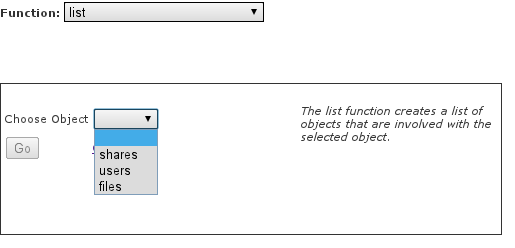
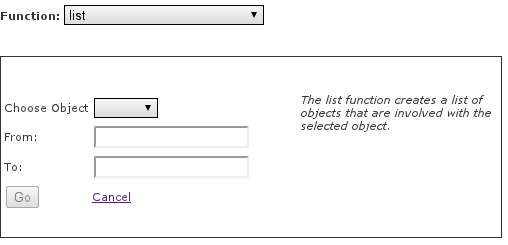
Updated webSMBTA documentation with time modifiers and printview-formats

diff --git a/doc/smbta-guide.html b/doc/smbta-guide.html
@@ -461,8 +461,8 @@ function generateToc(toclevels) {
 <h1>The SMB Traffic Analyzer Guide</h1>
 <span id="author">Holger Hetterich</span><br />
 <span id="email"><tt>&lt;<a href="mailto:ozzy@metal-district.de">ozzy@metal-district.de</a>&gt;</tt></span><br />
-<span id="revnumber">version 1.2.4,</span>
-<span id="revdate">Apr 2011</span>
+<span id="revnumber">version 1.2.5,</span>
+<span id="revdate">May 2011</span>
 <div id="toc">
   <div id="toctitle">Table of Contents</div>
   <noscript><p><b>JavaScript must be enabled in your browser to display the table of contents.</b></p></noscript>
@@ -1555,7 +1555,7 @@ The list function prints a list of objects related to the given object.</p></div
 <div class="paragraph"><p>"list users" will print out the list of known users working or involved
 with the object.<br />
 "list files" will print out the list of known files involved with the object.</p></div>
-<div class="paragraph"><p>needed parameters: object</p></div>
+<div class="paragraph"><p>Needed parameters: object (shares, users, files)</p></div>
 <h5 id="_total_2">total</h5>
 <div class="paragraph"><p><span class="image">
 <img src="gfx/webSMBTA/fn_total.png" alt="gfx/webSMBTA/fn_total.png" />
@@ -1564,41 +1564,66 @@ The total function prints out the sum of bytes transferred by an object.</p></di
 <div class="paragraph"><p>"total r" will compute the sum of bytes read.<br />
 "total w" will compute the sum of bytes written.<br />
 "total rw" will compute the sum of bytes transferred (read and write access).</p></div>
-<div class="paragraph"><p>needed parameters: mode</p></div>
+<div class="paragraph"><p>Needed parameters: mode (read, write, read/write)</p></div>
 <h5 id="_top_2">top</h5>
 <div class="paragraph"><p><span class="image">
 <img src="gfx/webSMBTA/fn_top.png" alt="gfx/webSMBTA/fn_top.png" />
 </span><br />
 The top function prints out a number of top files, users, or shares by read, write or read and write access.<br />
 The "asc" and "desc" arguments are optional. The sort direction of the function can be changed by adding one of these arguments.</p></div>
-<div class="paragraph"><p>needed parameters: object, mode, number of listed objects<br />
-optional parameter: sort-mode</p></div>
+<div class="paragraph"><p>Needed parameters: object (shares, users, files), mode (read, write, read/write), number of listed objects<br />
+Optional parameter: sort-mode (descending, ascending)</p></div>
 <h5 id="_usage_2">usage</h5>
 <div class="paragraph"><p><span class="image">
 <img src="gfx/webSMBTA/fn_usage.png" alt="gfx/webSMBTA/fn_usage.png" />
 </span><br />
 The usage function sums up the usage or activity of an object by creating a virtual day, listing 24 hours and showing the average data activity by percentage.</p></div>
-<div class="paragraph"><p>needed parameters: mode</p></div>
+<div class="paragraph"><p>Needed parameters: mode (read, write, read/write)</p></div>
 <h5 id="_last_activity_2">last_activity</h5>
 <div class="paragraph"><p><span class="image">
 <img src="gfx/webSMBTA/fn_last_activity.png" alt="gfx/webSMBTA/fn_last_activity.png" />
 </span><br />
 The last_activity function prints out a list of actions an object has been
 involved in.</p></div>
-<div class="paragraph"><p>needed parameters: number of last activities</p></div>
+<div class="paragraph"><p>Needed parameters: number of last activities</p></div>
 <h5 id="_throughput_2">throughput</h5>
 <div class="paragraph"><p><span class="image">
 <img src="gfx/webSMBTA/fn_throughput.png" alt="gfx/webSMBTA/fn_throughput.png" />
 </span><br />
 The throughput function calculates the throughput of data of the last [num] minutes, day, seconds, or hours.</p></div>
-<div class="paragraph"><p>needed parameters: time periode (number and unit), mode</p></div>
+<div class="paragraph"><p>Needed parameters: time periode (number and unit), mode (read, write, read/write)</p></div>
+<h5 id="_time_modifiers_2">Time Modifiers</h5>
+<div class="paragraph"><p>Any functions that are called on objects can make use of time modifiers, that allow to specifiy a time range the function shall work on.<br />
+<span class="image">
+<img src="gfx/webSMBTA/time_from.png" alt="gfx/webSMBTA/time_from.png" />
+</span><br />
+<span class="image">
+<img src="gfx/webSMBTA/time_to.png" alt="gfx/webSMBTA/time_to.png" />
+</span><br /></p></div>
+<div class="paragraph"><p>It&#8217;s possible to type in the timestamp manually in the following format:<br />
+<strong>YYYY-MM-DD HH:MM:SS</strong><br />
+The second way is to select the time from a calendar<br />
+<span class="image">
+<img src="gfx/webSMBTA/time_calendar.png" alt="gfx/webSMBTA/time_calendar.png" />
+</span></p></div>
 <h4 id="_printview_refresh_remove">4.3.9. Printview, Refresh, Remove</h4>
 <div class="paragraph"><p>Every rendered functions has three icons on the top right side.</p></div>
 <h5 id="_printview">Printview</h5>
-<div class="paragraph"><p><span class="image">
+<div class="paragraph"><p>There are two options.<br />
+<span class="image">
+<img src="gfx/webSMBTA/html.png" alt="gfx/webSMBTA/html.png" />
+</span><br />
+<span class="image">
 <img src="gfx/webSMBTA/function-printview.png" alt="gfx/webSMBTA/function-printview.png" />
 </span><br />
-Opens the specific function in a new tab or window.</p></div>
+Opens the specific function in a new tab or window.<br />
+<span class="image">
+<img src="gfx/webSMBTA/text.png" alt="gfx/webSMBTA/text.png" />
+</span><br />
+<span class="image">
+<img src="gfx/webSMBTA/function-save.png" alt="gfx/webSMBTA/function-save.png" />
+</span><br />
+Offers a downloadable textfile with the specific function.</p></div>
 <h5 id="_refresh">Refresh</h5>
 <div class="paragraph"><p><span class="image">
 <img src="gfx/webSMBTA/function-refresh.png" alt="gfx/webSMBTA/function-refresh.png" />
@@ -1941,8 +1966,8 @@ keyfile = /your/path/to/keyfile/filename</tt></pre>
 </div>
 <div id="footer">
 <div id="footer-text">
-Version 1.2.4<br />
-Last updated 2011-05-27 11:09:10 CEST
+Version 1.2.5<br />
+Last updated 2011-06-16 14:58:16 CEST
 </div>
 </div>
 </body>
